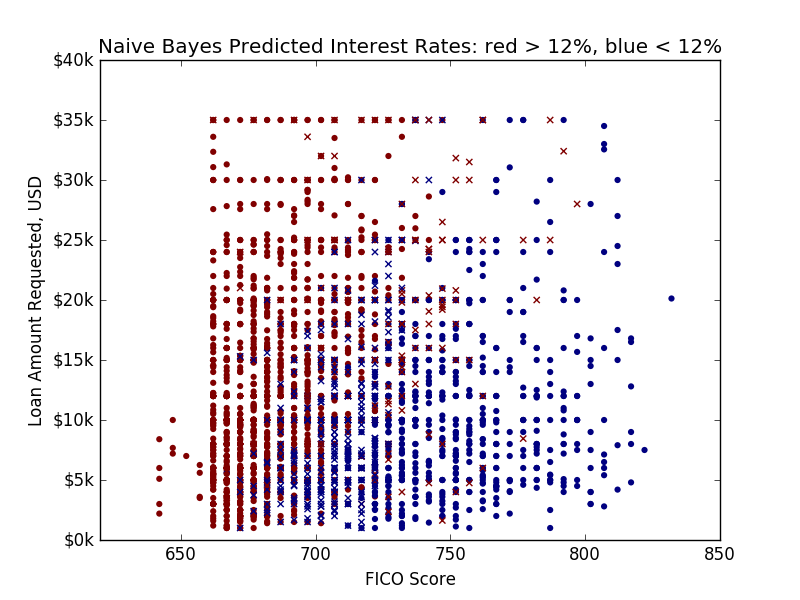
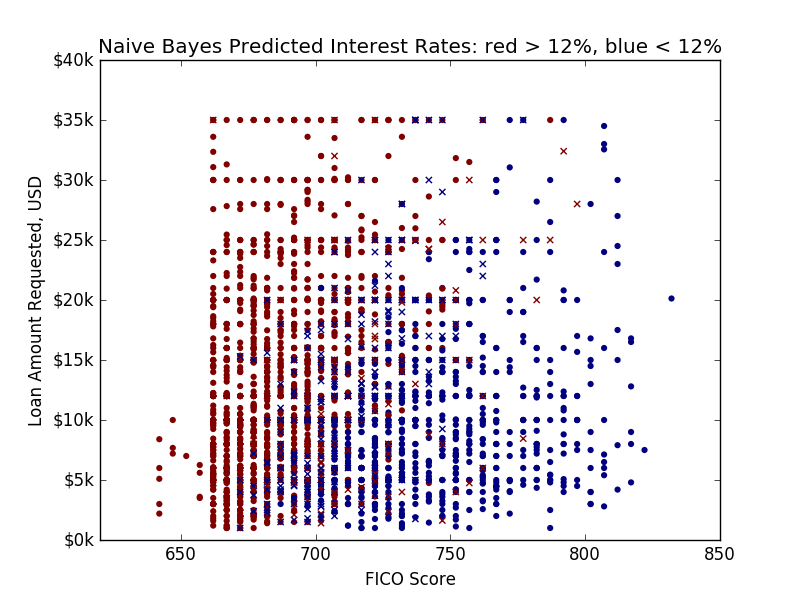
better match, refactor Loan.Purpose.Score

diff --git a/naive_bayes.py b/naive_bayes.py
@@ -32,15 +32,23 @@ def own_to_num(s):
     else:   # 'ANY'
         return 0
 
+slurp = list(set(loansData['Loan.Purpose']))
+# print 'slurp', slurp  # 14 of 'em
+
+def purpose_to_num(s):
+    return slurp.index(s)
+
 loansData['Interest.Rate'] = loansData['Interest.Rate'].apply(lambda s: float(s.rstrip('%')))
 loansData['Debt.To.Income.Ratio'] = loansData['Debt.To.Income.Ratio'].apply(lambda s: float(s.rstrip('%')))
 loansData['IR_TF'] = loansData['Interest.Rate'].apply(lambda x: 0 if x<12 else 1)
 loansData['Loan.Length'] = loansData['Loan.Length'].apply(lambda s: int(s.rstrip(' months')))
 loansData['FICO.Score'] = loansData['FICO.Range'].apply(splitSum)
 loansData['Home.Type'] = loansData['Home.Ownership'].apply(own_to_num)
+loansData['Loan.Purpose.Score'] = loansData['Loan.Purpose'].apply(purpose_to_num)
 loansData['Intercept'] = 1
 
 print 'loansData head\n', loansData[:5]
+print 'loansData describe\n', loansData.describe()
 
 plt.clf()
 plt.scatter(loansData['FICO.Score'], loansData['Amount.Requested'], c=loansData['IR_TF'], linewidths=0)
@@ -89,27 +97,27 @@ def plot_predicted(label, correct, incorrect):
     plt.title('Naive Bayes Predicted Interest Rates: red > 12%, blue < 12%')
     plt.savefig(plotdir+label+'_bayes_simple_intrate_predicted.png')
 
-def do_naive_bayes(indep_variables, label, target_plot=True, pred_plot=False):
+def do_naive_bayes(indep_variables, label, target_plot=False, pred_plot=False):
     print 'label:', label
     print 'Dependent Variable(s):', dep_variables
     print 'Independent Variables:', indep_variables
 
     loans_data = pd.DataFrame( loansData[indep_variables] )
-    print 'loans_data head\n', loans_data[:5]
+#   print 'loans_data head\n', loans_data[:5]
 
     pred = gnb.fit(loans_data, loans_target).predict(loans_data)
 
-    print("Number of mislabeled points out of a total %d points : %d" \
+    print(">>> Number of mislabeled points out of a total %d points : %d <<<" \
           % ( loans_data.shape[0], (loans_target != pred).sum() ))
-    print "pred correctly labeled", (loans_target == pred).sum()
+    print "Number of correctly labeled predicted points : %d" % (loans_target == pred).sum()
 
     loans_data['target'] = loans_target
     loans_data['predict'] = pred
-    print 'loans_data head\n', loans_data[:5]
+#   print 'loans_data head\n', loans_data[:5]
 
     incorrect = loans_data[ loans_data['target'] != loans_data['predict'] ]
     correct = loans_data[ loans_data['target'] == loans_data['predict'] ]
-    print 'loans_data incorrectly labeled head\n', incorrect[:5]
+#   print 'loans_data incorrectly labeled head\n', incorrect[:5]
 
     if (target_plot):
         plot_target(label, correct, incorrect)
@@ -120,17 +128,23 @@ def do_naive_bayes(indep_variables, label, target_plot=True, pred_plot=False):
     return (loans_target != pred).sum()
 
 indep_variables = ['FICO.Score', 'Amount.Requested']
-do_naive_bayes(indep_variables, label='fa', pred_plot=True)
+do_naive_bayes(indep_variables, label='fa', target_plot=True, pred_plot=True)
 
 indep_variables = ['FICO.Score', 'Amount.Requested', 'Home.Type']
-do_naive_bayes(indep_variables, label='fah')
+do_naive_bayes(indep_variables, label='fah',target_plot=True)
 
 indep_variables = ['FICO.Score', 'Amount.Requested', 'Home.Type', 'Revolving.CREDIT.Balance', 'Monthly.Income', 'Open.CREDIT.Lines', 'Debt.To.Income.Ratio']
-do_naive_bayes(indep_variables, label='all')
+do_naive_bayes(indep_variables, label='all7', target_plot=True)
+
+indep_variables = ['FICO.Score', 'Amount.Requested', 'Home.Type', 'Revolving.CREDIT.Balance', 'Monthly.Income', 'Open.CREDIT.Lines', 'Debt.To.Income.Ratio', 'Loan.Length', 'Loan.Purpose.Score', 'Amount.Funded.By.Investors', 'Inquiries.in.the.Last.6.Months']
+do_naive_bayes(indep_variables, label='all', target_plot=True)
+
+indep_variables = ['FICO.Score', 'Amount.Requested', 'Home.Type', 'Loan.Length', 'Loan.Purpose.Score', 'Amount.Funded.By.Investors', 'Inquiries.in.the.Last.6.Months']
+do_naive_bayes(indep_variables, label='better', target_plot=True)
 
 # to do:
 #    use KFold to properly measure prediction (do not plot by default)
-#    add combinations of variables automatically to minimize incorrect
+#    add automatic random combinations of variables to minimize incorrect number
 
 print '\nplots created'
 
